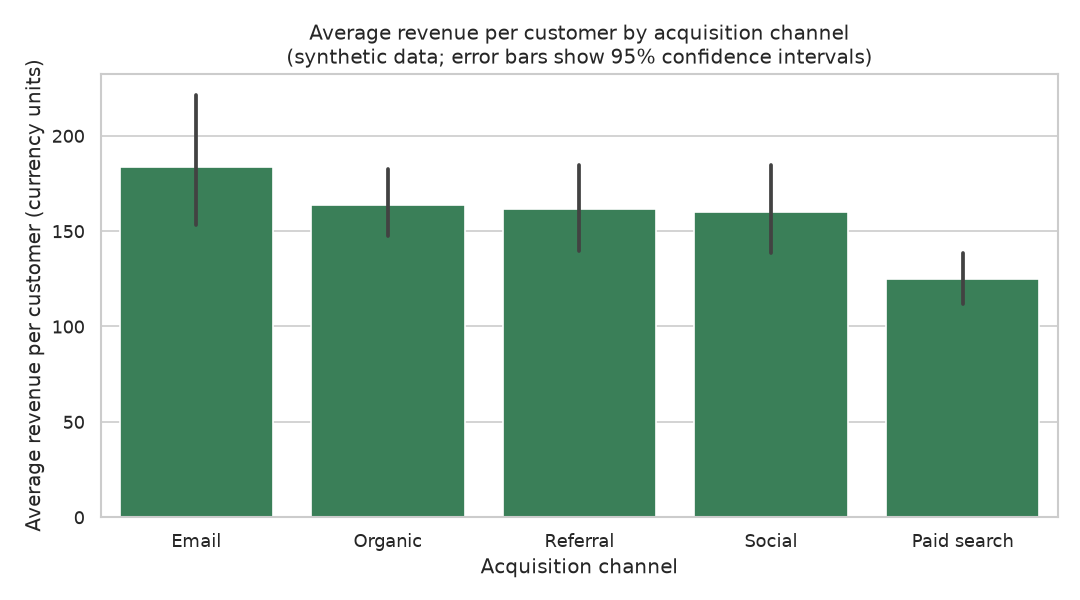
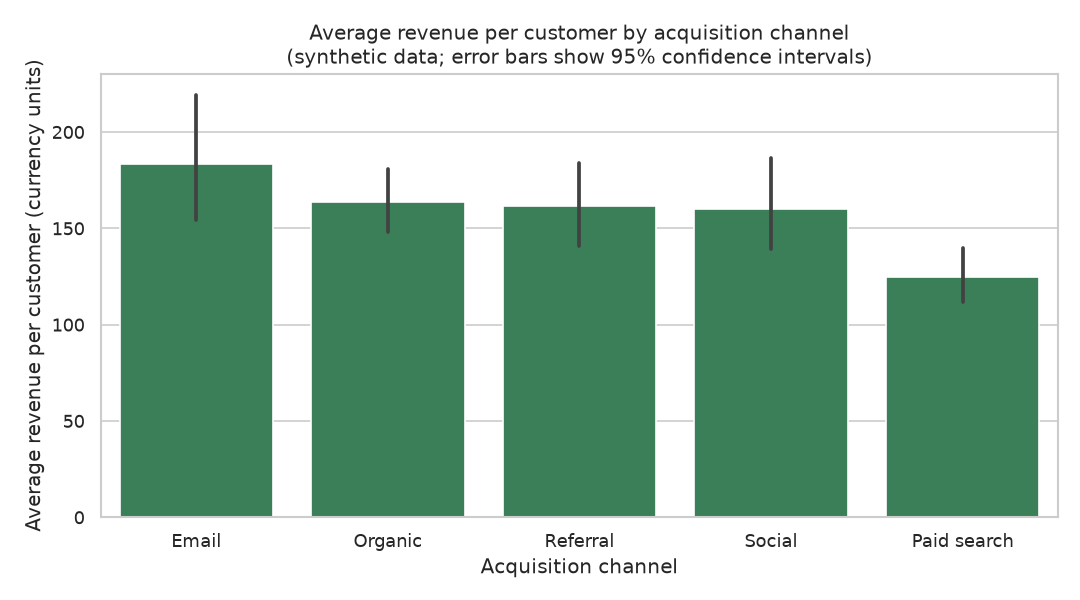
customer-lifetime-value: Document results and conclusions

diff --git a/customer-lifetime-value/README.md b/customer-lifetime-value/README.md
@@ -33,7 +33,7 @@ Two CSV tables are written to `data/`:
 | File | Description | Rows |
 |------|-------------|------|
 | `data/customers.csv` | One row per customer: acquisition date, channel, country | 1,200 |
-| `data/transactions.csv` | One row per order: customer, date, order value | at most 5,000 |
+| `data/transactions.csv` | One row per order: customer, date, order value | 3,852 (at most 5,000 by design) |
 
 Customers are acquired between 2024-01-01 and 2025-06-30, and the observation window ends on 2025-12-31. Purchase behavior follows a BG/NBD-like process: each customer has their own purchase rate and a probability of becoming inactive after each purchase. Full column descriptions are in [`data_description.md`](data_description.md).
 
@@ -110,7 +110,7 @@ The average order value is shrunk toward the global mean with weight `n / (n + 5
 
 ### 4. Validation
 
-The split is **by time**, not random, because the task is forecasting: the model is fitted on orders up to 182 days before the end of the observation window and its predictions are compared with the orders that actually occurred in those final 182 days. It is compared with a **naive baseline** that extrapolates each customer's observed purchase rate and ignores churn. Reported metrics (customer-level MAE, RMSE, R-squared, total predicted vs actual, Spearman rank correlation, and the share of actual holdout revenue captured by the top 10% of customers ranked by predicted revenue) are printed by the script and saved to `reports/metrics.json`. This README does not quote them; read them from the script output.
+The split is **by time**, not random, because the task is forecasting: the model is fitted on orders up to 182 days before the end of the observation window and its predictions are compared with the orders that actually occurred in those final 182 days. It is compared with a **naive baseline** that extrapolates each customer's observed purchase rate and ignores churn. Reported metrics (customer-level MAE, RMSE, R-squared, total predicted vs actual, Spearman rank correlation, and the share of actual holdout revenue captured by the top 10% of customers ranked by predicted revenue) are printed by the script and saved to `reports/metrics.json`. The numbers from one run are listed in the Results section below.
 
 Because the data is synthetic and generated by a similar process, good agreement is expected and does not show how the method would perform on real customers.
 
@@ -123,6 +123,94 @@ Outputs:
 - `figures/holdout_calibration.png`: mean predicted vs actual holdout revenue per decile of predicted revenue;
 - `figures/clv_by_channel.png`: average historical revenue vs predicted next-12-month revenue by channel;
 - `reports/metrics.json`: validation metrics, fitted parameters and final-model summary.
+
+## Results
+
+All numbers below are copied from the script output (`src/data_generator.py`, `src/eda.py`, `src/analysis.py`, `src/run_sql.py`) and from `reports/metrics.json`. The data is synthetic, so they describe the simulated customers only.
+
+### Data and historical CLV
+
+- 1,200 customers and 3,852 orders; total historical revenue is 186,499.26, and the mean order value is 48.42.
+- 31.2% of customers placed exactly one order; the median customer placed 2 orders and the maximum is 25.
+- The top 10% of customers (120) generate 33.4% of total revenue.
+- Average historical revenue per customer by channel: email 183.46, organic 163.68, referral 161.78, social 159.85, paid_search 124.83.
+- Average revenue per customer by acquisition quarter falls from 207.40 (2024Q1) to 118.48 (2025Q2), while average observed days fall from 681.23 to 229.52.
+
+![Monthly revenue](figures/monthly_revenue.png)
+
+### Holdout validation
+
+The model was fitted on data up to 2025-07-02 and evaluated on the following 182 days (1,200 customers). Fitted parameters (weeks): r=0.8186, alpha=16.3233, a=5.6303, b=36.2863 (optimizer converged).
+
+| Metric (per customer) | BG/NBD | Naive rate |
+|-----------------------|--------|------------|
+| Orders: MAE | 0.805 | 1.028 |
+| Orders: RMSE | 1.187 | 2.374 |
+| Orders: R-squared | 0.185 | -2.262 |
+| Orders: total predicted (actual 915) | 882.721 | 1265.668 |
+| Orders: total error | -3.528% | 38.324% |
+| Revenue: MAE | 41.031 | 52.106 |
+| Revenue: RMSE | 69.456 | 125.817 |
+| Revenue: R-squared | 0.177 | -1.701 |
+| Revenue: total predicted (actual 45,352.69) | 42,487.15 | 61,032.07 |
+| Revenue: total error | -6.318% | 34.572% |
+| Spearman correlation (revenue) | 0.406 | 0.282 |
+| Share of holdout revenue from top 10% by predicted revenue | 30.6% | 27.8% |
+
+The best possible share for the top 10% of customers is 56.9%.
+
+![Holdout calibration](figures/holdout_calibration.png)
+
+### Final model: forecast for the next 12 months
+
+- Fitted parameters (weeks): r=0.7463, alpha=14.8545, a=2.7266, b=18.5931 (converged).
+- Predicted revenue for the next 365 days across all customers: 65,942.26.
+- Mean probability of being alive: 0.742.
+- The top 10% of customers (120) account for 33.4% of predicted 12-month revenue.
+
+| Channel | Customers | Avg historical revenue | Avg P(alive) | Avg predicted 12m revenue |
+|---------|-----------|------------------------|--------------|---------------------------|
+| email | 130 | 183.46 | 0.74 | 62.58 |
+| organic | 423 | 163.68 | 0.72 | 56.18 |
+| paid_search | 293 | 124.83 | 0.76 | 46.85 |
+| referral | 129 | 161.78 | 0.70 | 53.10 |
+| social | 225 | 159.85 | 0.79 | 59.85 |
+
+By country, the average predicted 12-month revenue ranges from 51.86 (DE) to 60.24 (ES).
+
+The customer with the highest predicted 12-month revenue is customer 1153 (social, US): 12 orders, P(alive) 0.89, predicted revenue 497.66. The customer with the highest historical revenue is customer 123 (organic, US): 2,020.71 from 16 orders, with a predicted 12-month revenue of 381.09 and P(alive) 0.62.
+
+![Historical vs predicted CLV by channel](figures/clv_by_channel.png)
+
+## Conclusions
+
+Each conclusion below is limited to what the numbers above show.
+
+- **The BG/NBD approximation beat the naive baseline on this holdout.** It had lower MAE and RMSE for both orders and revenue, and its total predicted revenue was 6.3% below the actual total, against 34.6% above for the naive rate. This is consistent with the idea that ignoring churn overstates future purchases.
+- **Individual-level accuracy is modest.** Customer-level R-squared for revenue is 0.177 and the Spearman correlation is 0.406. The model is better at the aggregate level than at predicting what a single customer will spend.
+- **Ranking is only partly useful.** The top 10% of customers by predicted revenue captured 30.6% of actual holdout revenue, slightly above the naive 27.8% but far below the best possible 56.9%.
+- **Paid search has the lowest value in this dataset.** It has the lowest average historical revenue per customer (124.83) and the lowest predicted 12-month revenue (46.85). Email has the highest on both measures (183.46 and 62.58).
+- **Revenue is moderately concentrated.** The top 10% of customers account for 33.4% of historical revenue and 33.4% of predicted 12-month revenue.
+- **Cohorts cannot be compared on raw revenue.** Revenue per customer decreases for later cohorts, but so do their observed days, so this pattern alone does not show that newer cohorts are worth less.
+- **Historical and predicted revenue are not directly comparable.** The historical figure (186,499.26) covers the whole observation window, while the prediction (65,942.26) covers only the next 365 days.
+
+## Limitations & next steps
+
+**Limitations**
+
+- **The data is synthetic.** It was generated by this project's own code with a BG/NBD-like process, so good agreement between model and data is expected. The results do not show how the method would perform on real customers.
+- Only one holdout split (the last 182 days) was evaluated, so the metrics have no confidence intervals and may change with a different cutoff.
+- The model uses only frequency, recency and *T*. Channel, country and cohort are not model inputs; they are used only to summarize predictions.
+- Order values are modeled by a shrunk average with a fixed constant (5), not a fitted value, and no relationship between purchase frequency and order value is modeled.
+- The predicted revenue is not discounted, and no margin or acquisition cost is included, so it is revenue, not profit.
+
+**Next steps**
+
+- Evaluate several cutoff dates (rolling-origin validation) and add uncertainty estimates, for example with bootstrap.
+- Fit the model separately by channel or add covariates, and check whether the segment differences remain.
+- Replace the shrinkage heuristic with a model for order value (for example Gamma-Gamma) and compare the results.
+- Add discounting and margin to move from revenue to a profit-based CLV.
+- Apply the pipeline to real transaction data, if available, and check calibration again.
 
 ## SQL analysis
 
@@ -139,7 +227,7 @@ Outputs:
 | Q7 | Top 10 customers by historical revenue and days since last order |
 | Q8 | Share of revenue from the top 10% of customers |
 
-`src/run_sql.py` loads the CSV files into an in-memory SQLite database with `pandas.to_sql`, splits `queries.sql` into statements, runs each one, and prints the question and the first rows of the result. It needs the data files, so run the generator first. Results appear only in the script output; the README does not quote them. The window-function queries (Q6, Q8) need SQLite 3.25 or newer, which ships with current Python 3.11 builds.
+`src/run_sql.py` loads the CSV files into an in-memory SQLite database with `pandas.to_sql`, splits `queries.sql` into statements, runs each one, and prints the question and the first rows of the result. It needs the data files, so run the generator first. Results appear in the script output. The window-function queries (Q6, Q8) need SQLite 3.25 or newer, which ships with current Python 3.11 builds.
 
 ## Tests
 

diff --git a/README.md b/README.md
@@ -21,5 +21,5 @@ Learning projects that use synthetic data generated by AI.
 | [Crypto Volatility Analysis](crypto-volatility-analysis/) | Returns distribution, rolling volatility and correlation on simulated prices | completed |
 | [Employee Attrition Analysis](employee-attrition-analysis/) | HR analytics: attrition drivers and a logistic regression model | completed |
 | [Supply Chain Lead Times](supply-chain-lead-times/) | Supplier lead time variability and on-time delivery KPIs | completed |
-| [Customer Lifetime Value](customer-lifetime-value/) | Historical and predictive CLV with a simple BG/NBD-style approximation | in progress |
+| [Customer Lifetime Value](customer-lifetime-value/) | Historical and predictive CLV with a simple BG/NBD-style approximation | completed |
 | [Warehouse Order Picking](warehouse-order-picking/) | Picking time analysis and k-means clustering of order profiles | in progress |
